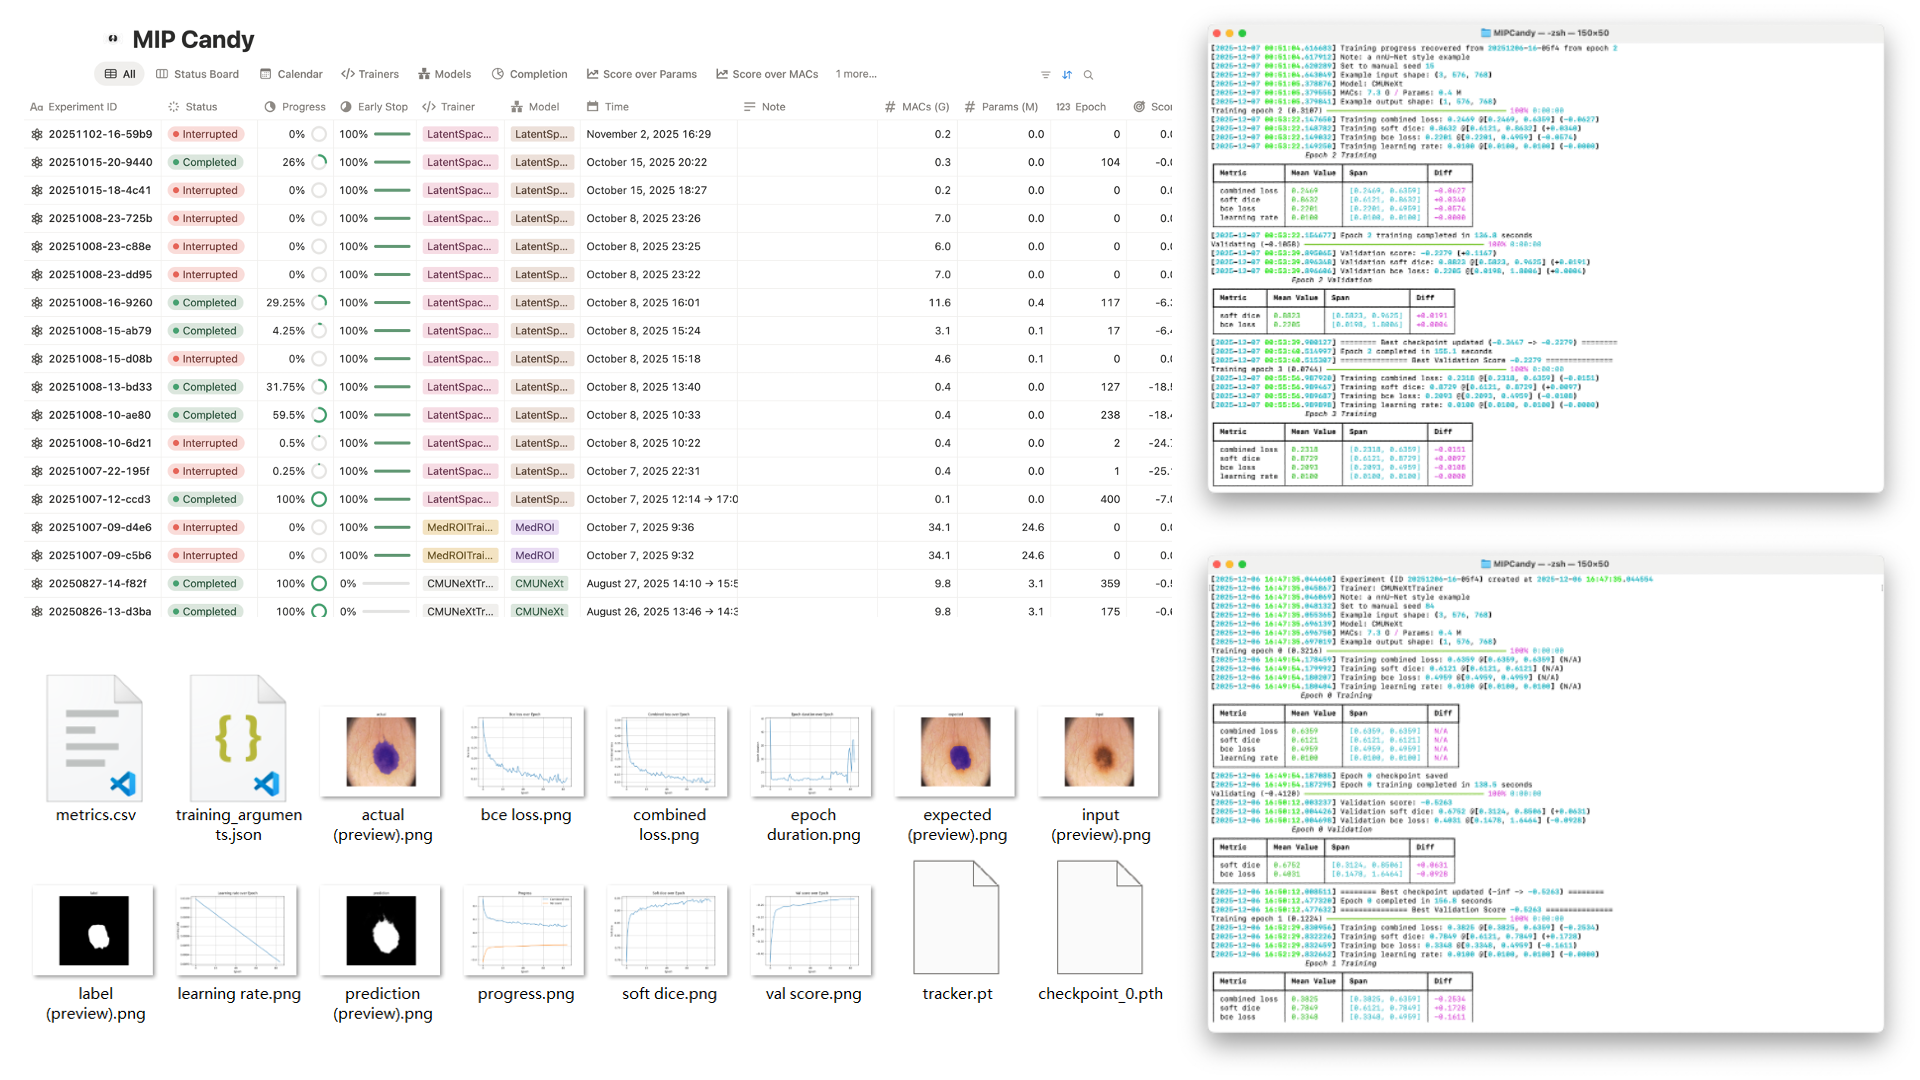
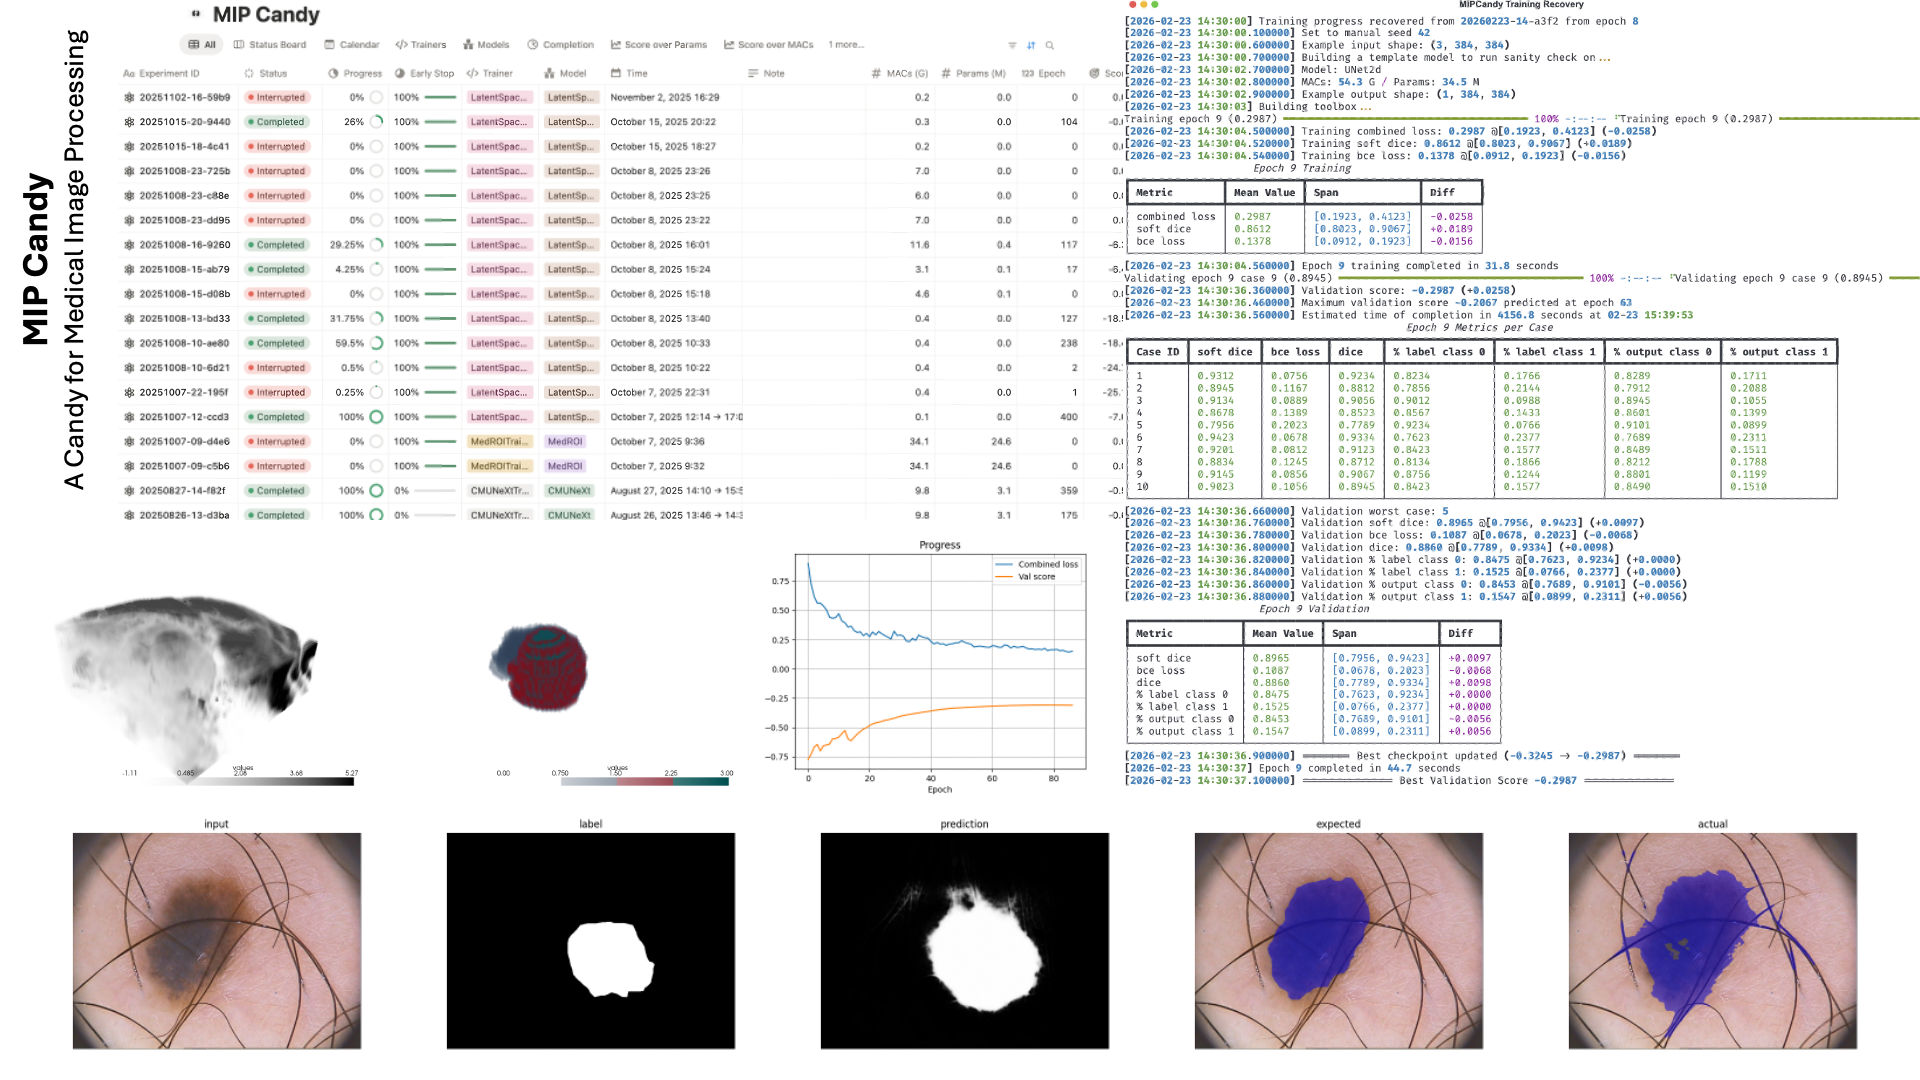
Update homepage (#234)
* Docs. (#233)

* Docs. (#233)

* Docs. (#233)

* Docs. (#233)

* Docs. (#233)

diff --git a/home/index.html b/home/index.html
@@ -726,58 +726,93 @@
 
         <div class="features-grid">
             <article class="feature-card">
-                <div class="feature-tag">Training</div>
-                <div class="feature-title">Easy adaptation to your workflow</div>
+                <div class="feature-tag">Trainer</div>
+                <div class="feature-title">Thoughtful console logs</div>
                 <p class="feature-desc">
-                    Override a single method to plug in your own network architecture. Grab a tool from the box and
-                    customize your experiments.
-                </p>
-                <ul class="inline-list">
-                    <li>Sliding window</li>
-                    <li>ROI inspection &amp; cropping</li>
-                    <li>Automatic padding &amp; shape alignment</li>
-                </ul>
-            </article>
-
-            <article class="feature-card">
-                <div class="feature-tag">Interface</div>
-                <div class="feature-title">Thoughtful command-line UX</div>
-                <p class="feature-desc">
-                    A clean CLI layout makes it easy to configure experiments, track progress, and resume work without
-                    digging through scripts.
+                    We carefully designed the console outputs to be informative and actionable, providing insights into
+                    model performance and training progress. Not only scalar metrics are printed, we also
+                    track their trends over epochs and show per-case validation metrics.
                 </p>
                 <div class="feature-thumb">
-                    <img alt="CLI UI" class="zoomable" src="assets/cli-ui.png">
+                    <img alt="console outputs" class="zoomable" src="assets/console-outputs.png">
                 </div>
             </article>
 
             <article class="feature-card">
-                <div class="feature-tag">Visualization</div>
-                <div class="feature-title">Built-in 2D &amp; 3D views</div>
+                <div class="feature-tag">Trainer</div>
+                <div class="feature-title">Built-in overlaid previews</div>
                 <p class="feature-desc">
-                    Inspect slices or volumes directly from the training pipeline for intuitive understanding of your
-                    data and predictions.
+                    Sometimes even when all metrics seem perfect, the model can still be misleading. MIP Candy
+                    does its best to help you "see" the model's performance by providing powerful built-in visualization
+                    utilities.
                 </p>
                 <div class="feature-thumb">
-                    <img alt="2D and 3D visualization" class="zoomable" src="assets/visualization.png">
+                    <div style="display: flex;">
+                        <div style="width: 50%">
+                            <img alt="expected" class="zoomable" src="assets/fig-preview-expected.png">
+                        </div>
+                        <div style="width: 50%">
+                            <img alt="actual" class="zoomable" src="assets/fig-preview-actual.png">
+                        </div>
+                    </div>
+                    <div style="display: flex;">
+                        <div style="width: 33%">
+                            <img alt="input" class="zoomable" src="assets/fig-input.png">
+                        </div>
+                        <div style="width: 33%">
+                            <img alt="label" class="zoomable" src="assets/fig-label.png">
+                        </div>
+                        <div style="width: 33%">
+                            <img alt="output" class="zoomable" src="assets/fig-output.png">
+                        </div>
+                    </div>
                 </div>
             </article>
 
             <article class="feature-card">
-                <div class="feature-tag">Reliability</div>
-                <div class="feature-title">Interruption-tolerant runs</div>
+                <div class="feature-tag">Trainer</div>
+                <div class="feature-title">3D rendering</div>
                 <p class="feature-desc">
-                    Experiments can be safely paused and resumed with built-in recovery mechanisms, so cluster hiccups
-                    don’t cost you progress.
+                    Visualizing 3D volumes, which are widespread in medical imaging and other 3D data analysis tasks,
+                    can be challenging. MIP Candy provides simple and intuitive 3D visualization interfaces that
+                    allow you to visualize 3D volumes in a user-friendly manner. These methods are well sculpted to
+                    ensure negligible overhead added to the training process.
                 </p>
                 <div class="feature-thumb">
-                    <img alt="Recovery screenshots" class="zoomable" src="assets/recovery.png">
+                    <div style="display: flex;">
+                        <div style="width: 50%">
+                            <img alt="input" class="zoomable" src="assets/fig-3d-input.png">
+                        </div>
+                        <div style="width: 50%">
+                            <img alt="label" class="zoomable" src="assets/fig-3d-label.png">
+                        </div>
+                    </div>
+
                 </div>
             </article>
 
             <article class="feature-card">
-                <div class="feature-tag">Dashboards</div>
-                <div class="feature-title">Remote monitoring ready</div>
+                <div class="feature-tag">Trainer</div>
+                <div class="feature-title">Mertics plotting</div>
+                <p class="feature-desc">
+                    Everything saved into <span class="inline-code">metrics</span> will be automatically plotted and
+                    saved into the trainer folder.
+                </p>
+                <div class="feature-thumb">
+                    <div style="display: flex;">
+                        <div style="width: 50%">
+                            <img alt="progress" class="zoomable" src="assets/fig-progress.png">
+                        </div>
+                        <div style="width: 50%">
+                            <img alt="val score" class="zoomable" src="assets/fig-valscore.png">
+                        </div>
+                    </div>
+                </div>
+            </article>
+
+            <article class="feature-card">
+                <div class="feature-tag">Dashboard</div>
+                <div class="feature-title">Ready for remote monitoring</div>
                 <p class="feature-desc">
                     Connect to Notion, Weights &amp; Biases, and TensorBoard for rich experiment tracking and sharing
                     with your team.
@@ -788,12 +823,16 @@
             </article>
 
             <article class="feature-card">
-                <div class="feature-tag">Python&nbsp;3.12+</div>
-                <div class="feature-title">Modern Python, modern stack</div>
+                <div class="feature-tag">Profiler</div>
+                <div class="feature-title">Easy profiling</div>
                 <p class="feature-desc">
-                    Built for Python&nbsp;3.12 and above, MIP Candy takes advantage of modern typing and ecosystem
-                    improvements out of the box.
+                    As pipelines grow bigger and bigger, memory leakage and computational overhead become invisible
+                    problems. Our built-in profiler helps you investigate into sub-epoch level loggings to find the
+                    culprit.
                 </p>
+                <div class="feature-thumb">
+                    <img alt="profiler" class="zoomable" src="assets/profiler.svg">
+                </div>
             </article>
         </div>
     </section>
@@ -805,10 +844,11 @@
         <p class="text-block-body" style="max-width: 700px;">
             Start from <span class="inline-code">SegmentationTrainer</span> and only implement the network construction.
             MIP Candy handles data flow, loss computation, augmentation, checkpointing, and evaluation out of the box.
+            Learn all you can do in <a href="https://mipcandy-docs.projectneura.org">MIP Candy Docs</a>.
         </p>
 
         <div class="code-card" style="margin-top: 20px;">
-            <div class="code-label">Example — Custom model integration</div>
+            <div class="code-label">Example: custom model integration</div>
             <pre><code>from typing import override
 from torch import nn
 from mipcandy import SegmentationTrainer
@@ -851,40 +891,50 @@ class MyTrainer(SegmentationTrainer):
                 <h2 class="text-block-title">Train like a <b class="gradient-text">Pro</b> in a few lines</h2>
                 <p class="text-block-body">
                     Download a dataset, create a dataset wrapper, and hand it to a trainer. Below is an example using
-                    the PH2 dataset. To replicate an nnU-Net style training, you can add data augmentations and use the
-                    provided <span class="inline-code">SlidingSegmentationTrainer</span> instead of the current
-                    <span class="inline-code">SegmentationTrainer</span> to utilize the sliding window mechanism.
+                    the ACDC dataset. The example code to the right replicates most of nnU-Net's features but without
+                    augmentations.
                 </p>
             </div>
             <div class="code-card">
-                <div class="code-label">Example with PH2 dataset</div>
+                <div class="code-label">Example: train on the ACDC dataset</div>
                 <pre><code>from typing import override
+from os.path import exists
 
-from monai.networks.nets import BasicUNet
-from monai.transforms import Resized
+from monai.networks.nets import DynUNet
 from torch import nn
 from torch.utils.data import DataLoader
-from torchvision.transforms import Compose
 
-from mipcandy import SegmentationTrainer, AmbiguousShape, download_dataset, JointTransform, MONAITransform, Normalize, \
-    NNUNetDataset
+from mipcandy import SegmentationTrainer, AmbiguousShape, auto_device, download_dataset, NNUNetDataset, inspect, \
+    load_inspection_annotations, RandomROIDataset
 
 
 class UNetTrainer(SegmentationTrainer):
     @override
     def build_network(self, example_shape: AmbiguousShape) -> nn.Module:
-        return BasicUNet(2, example_shape[0], self.num_classes)
+        kernel_size = [[3, 3, 3]] * 5
+        strides = [[1, 1, 1]] + [[2, 2, 2]] * 4
+        return DynUNet(spatial_dims=3, in_channels=example_shape[0], out_channels=self.num_classes,
+                       kernel_size=kernel_size, strides=strides, upsample_kernel_size=strides,
+                       deep_supervision=self.deep_supervision, deep_supr_num=2, res_block=True)
 
 
-download_dataset("nnunet_datasets/PH2", "tutorial/datasets/PH2")
-transform = JointTransform(transform=Compose([
-    Resized(("image", "label"), (560, 768)), MONAITransform(Normalize(domain=(0, 1), strict=True))
-]))
-dataset, val_dataset = NNUNetDataset("tutorial/datasets/PH2", transform=transform, device="cuda").fold()
-dataloader = DataLoader(dataset, 8, shuffle=True)
-val_dataloader = DataLoader(val_dataset, 1, shuffle=False)
-trainer = UNetTrainer("tutorial", dataloader, val_dataloader, device="cuda")
-trainer.train(1000, note="example with PH2 dataset")
+if __name__ == "__main__":
+    device = auto_device()
+    download_dataset("nnunet_datasets/ACDC", "tutorial/datasets/ACDC")
+    dataset = NNUNetDataset("tutorial/datasets/ACDC", align_spacing=True)
+    if exists("tutorial/datasets/ACDC/annotations.json"):
+        annotations = load_inspection_annotations("tutorial/datasets/ACDC/annotations.json", dataset)
+    else:
+        dataset.device(device=device)
+        annotations = inspect(dataset)
+        dataset.device(device="cpu")
+        annotations.save("tutorial/datasets/ACDC/annotations.json")
+    dataset = RandomROIDataset(annotations, 2)
+    train, val = dataset.fold()
+    train_loader = DataLoader(train, 2, True, num_workers=2, prefetch_factor=2, persistent_workers=True)
+    val_loader = DataLoader(val, 1, False)
+    trainer = UNetTrainer("tutorial", train_loader, val_loader, device=device)
+    trainer.train(1000, note="example with the ACDC dataset")
 </code></pre>
             </div>
         </div>

diff --git a/README.md b/README.md
@@ -51,7 +51,7 @@ class MyTrainer(SegmentationTrainer):
 
 <details>
 <summary>Satisfying command-line UI design</summary>
-<img src="home/assets/cli-ui.png" alt="cmd-ui"/>
+<img src="home/assets/console-outputs.png" alt="cmd-ui"/>
 </details>
 
 <details>
